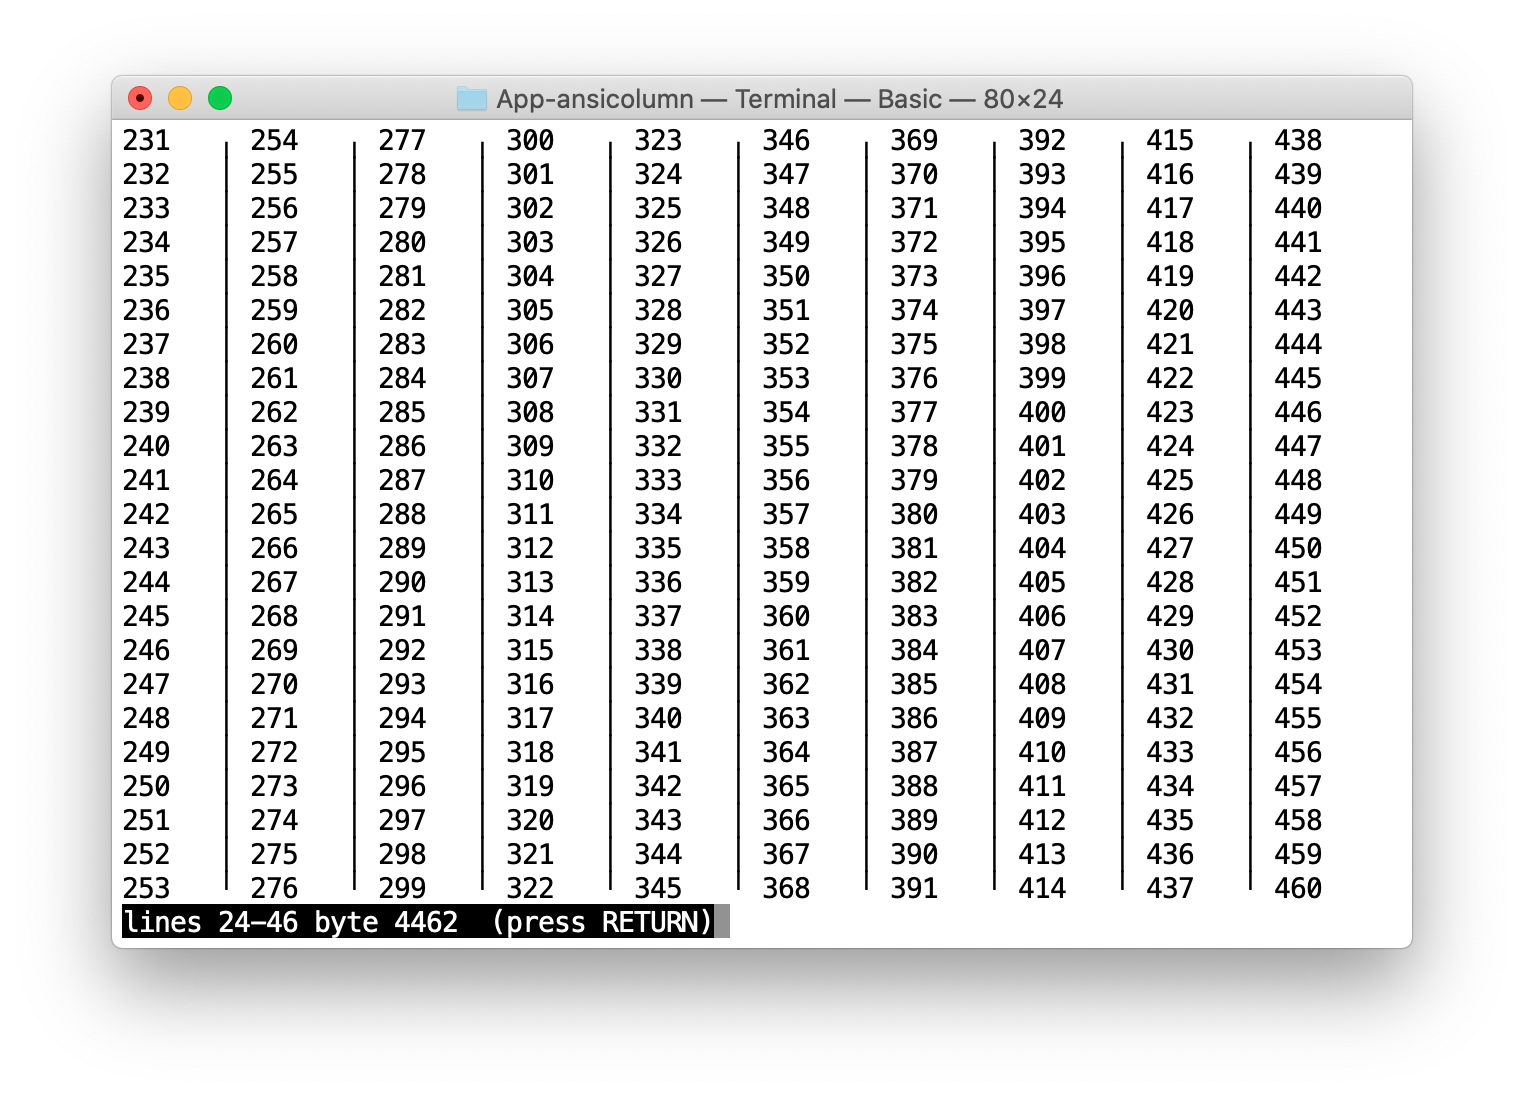
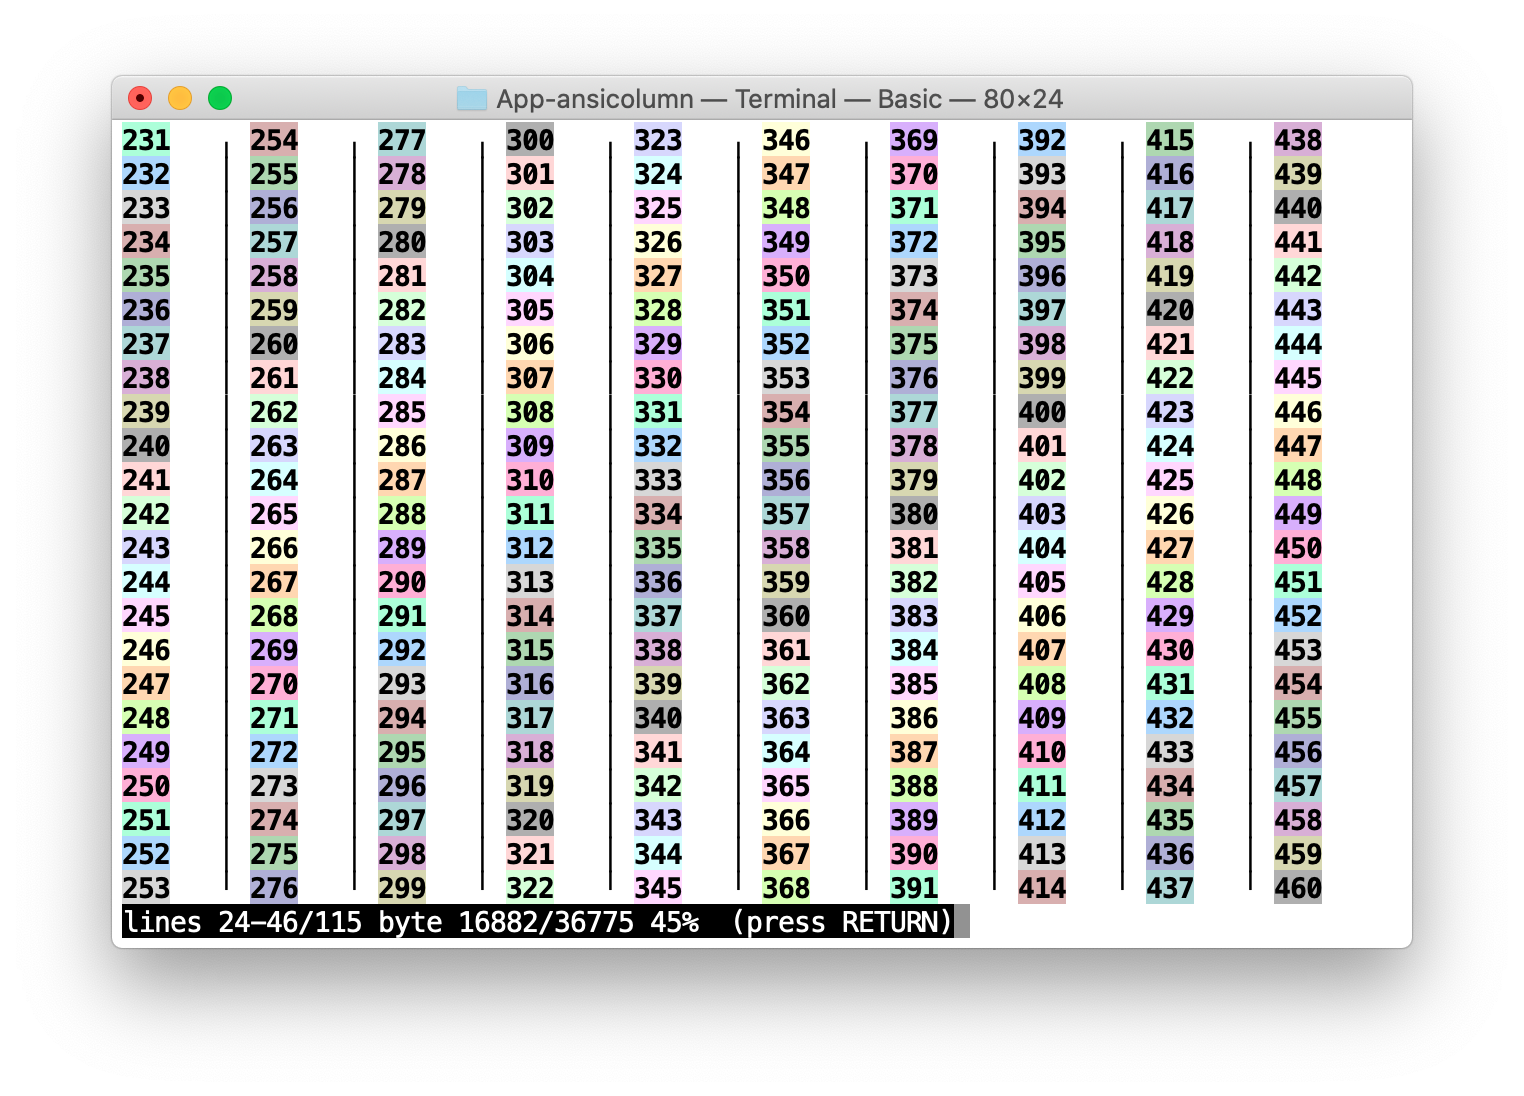
Add images.

diff --git a/images/README.md b/images/README.md
@@ -13,7 +13,7 @@ is learned from terminal status, and can be given by **--page-height**
 option.
 
 ```
-$ jot 1000 | ansicolumn -P | less
+$ jot 1000 | greple --re .+ --ci=a | ansicolumn -P | less
 ```
 
 ![page-option](https://raw.githubusercontent.com/kaz-utashiro/App-ansicolumn/master/images/ac-page-option.png)
@@ -24,7 +24,7 @@ Highlighted text in multiple columns.  Option **-C** specifies number
 of columns.
 
 ```
-$ ansicolumn -PC3
+$ src-hilite-lesspipe.sh `perldoc -ml App::ansicolumn::Border` | ansicolumn -PC3 | less
 ```
 
 ![color-code](https://raw.githubusercontent.com/kaz-utashiro/App-ansicolumn/master/images/ac-color-code.png)
@@ -38,6 +38,13 @@ $ ansicolumn -PS82
 ```
 
 ![large-screen](https://raw.githubusercontent.com/kaz-utashiro/App-ansicolumn/master/images/ac-large-screen.png)
+
+```
+$ curl https://tools.ietf.org/rfc/rfc3986.txt | ansicolumn -PC5 | less
+
+```
+
+![rfc](https://raw.githubusercontent.com/kaz-utashiro/App-ansicolumn/master/images/ac-rfc.png)
 
 ### Japanese Document
 
